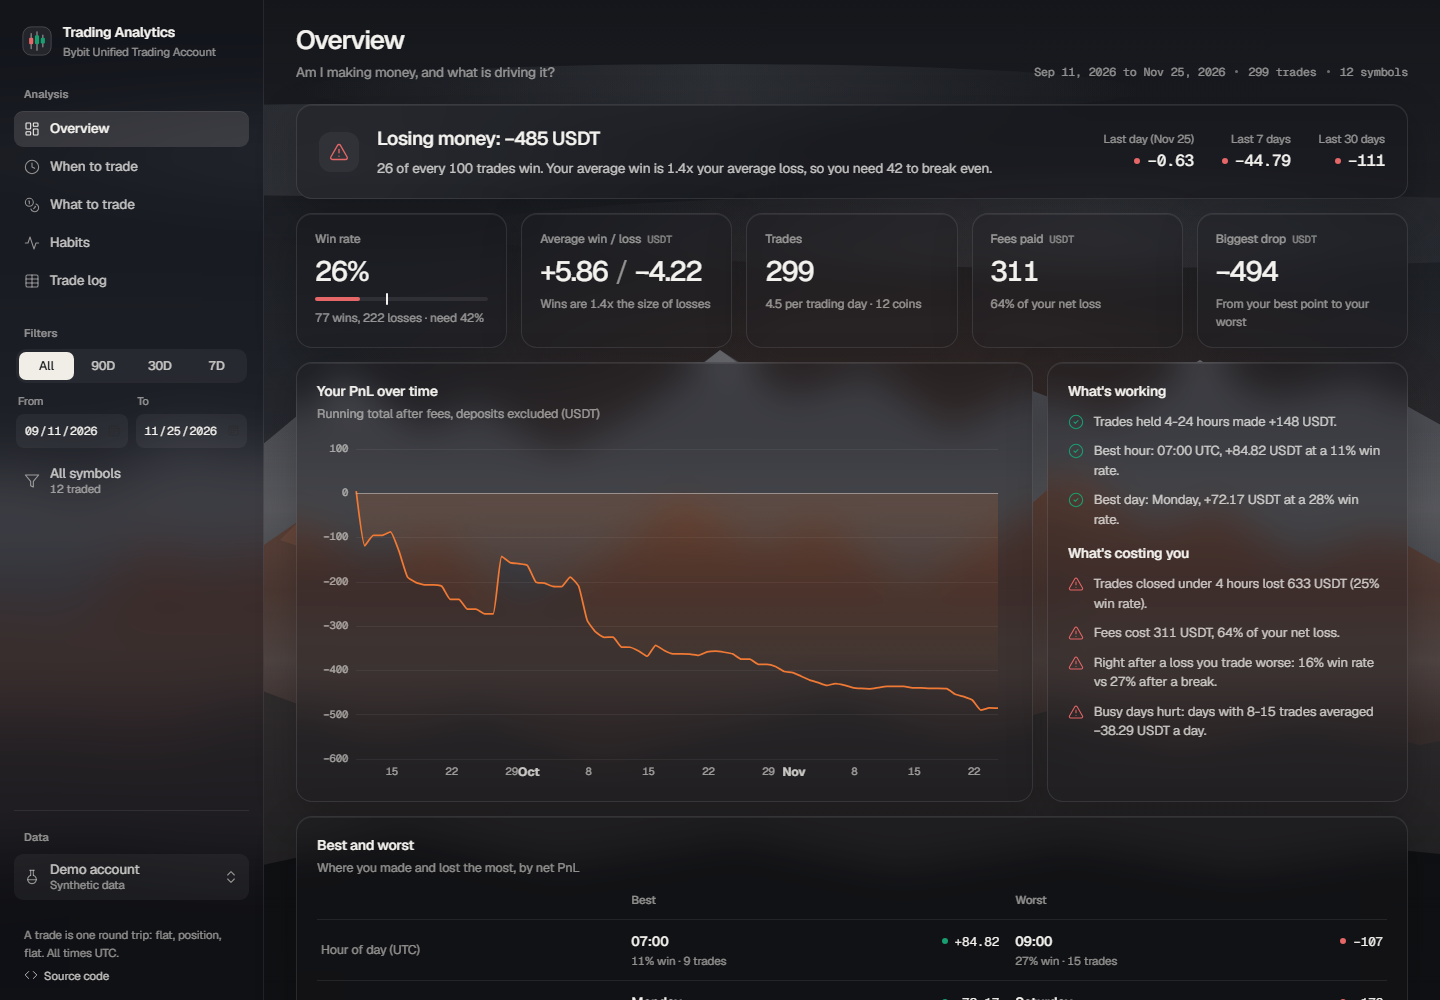
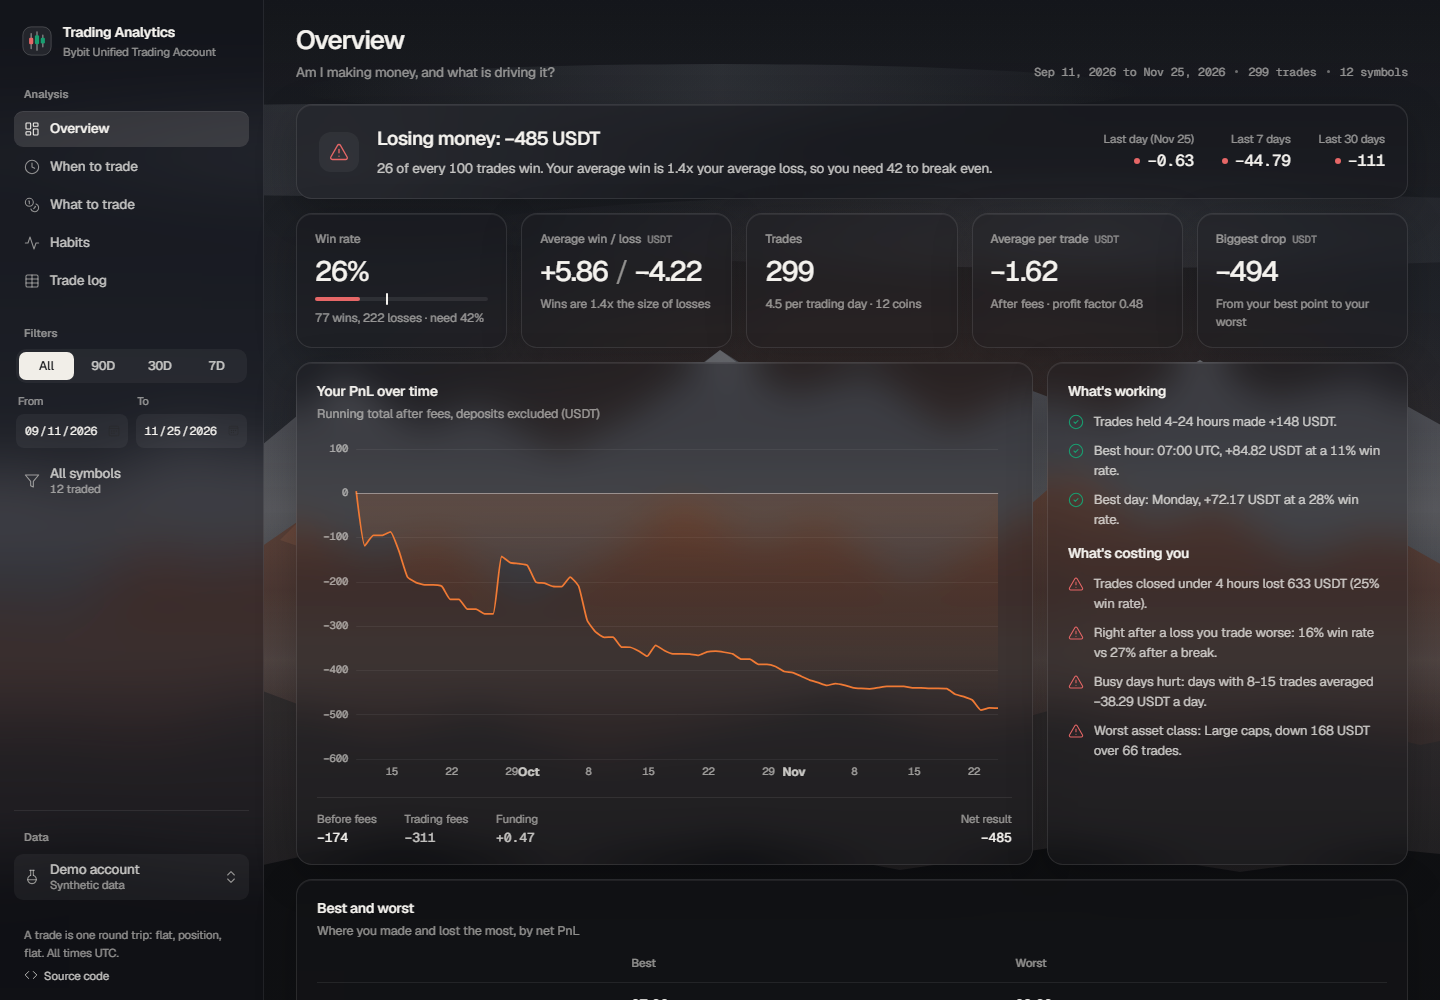
Treat fees as a cost, not a KPI
- Overview KPI row shows average result per trade (after fees) with profit factor
- Before fees / trading fees / funding / net result strip under the PnL chart
- Fee highlight only appears when fees turn a gross profit into a loss or take over a third of it

diff --git a/public/assets/app.js b/public/assets/app.js
@@ -353,6 +353,12 @@ function rankList(rows, ccy, { key = "symbol", n = 5 } = {}) {
     <span class="rank-val">${money0(d.net_pnl)}</span><span class="rank-sub">${fmt.int(d.trades)} trades, ${fmt.pct(d.win_rate)} win</span></li>`).join("")}</ol>`;
 }
 
+// Fees are a cost of doing business, so they sit under the PnL chart rather than among the KPIs.
+function costStrip(s) {
+  const step = (label, v, cls = "") => `<div class="cost ${cls}"><span>${label}</span><b>${money0(v)}</b></div>`;
+  return `<div class="costs" aria-label="PnL before and after costs, ${esc(s.currency)}">
+    ${step("Before fees", s.gross_pnl)}${step("Trading fees", s.fees, "muted")}${step("Funding", s.funding, "muted")}${step("Net result", s.net_pnl, "total")}</div>`;
+}
 function pageOverview(r) {
   const s = r.summary, ccy = s.currency, be = s.breakeven_win_rate, h = r.highlights || { working: [], costing: [] };
   const kpis = `<div class="kpis">
@@ -361,7 +367,8 @@ function pageOverview(r) {
     ${kpi("Average win / loss", `${fmt.money(s.avg_win)} <span class="kpi-sep">/</span> ${fmt.money(s.avg_loss)}`, { unit: ccy,
         foot: isNum(s.payoff_ratio) ? `Wins are ${fmt.num(s.payoff_ratio, 1)}x the size of losses` : "" })}
     ${kpi("Trades", fmt.int(s.trades), { foot: `${fmt.num(s.trades_per_active_day, 1)} per trading day &middot; ${fmt.int(s.symbols_traded)} coins` })}
-    ${kpi("Fees paid", fmt.num(-s.fees, 0), { unit: ccy, foot: s.net_pnl < 0 && s.fees < 0 ? `${fmt.pct(Math.min(1, -s.fees / Math.abs(s.net_pnl)))} of your net loss` : "" })}
+    ${kpi("Average per trade", fmt.money(s.expectancy, Math.abs(s.expectancy) >= 10 ? 1 : 2), { unit: ccy,
+        foot: `After fees${isNum(s.profit_factor) ? ` &middot; profit factor ${fmt.num(s.profit_factor, 2)}` : ""}` })}
     ${kpi("Biggest drop", fmt.money(s.max_drawdown_usdt, 0), { unit: ccy, foot: "From your best point to your worst" })}
   </div>`;
   const list = (items, kind) => items.length ? `<ul class="hl ${kind}">${items.map((t) => `<li>${icon(kind === "good" ? "check" : "alert")}<span>${esc(t)}</span></li>`).join("")}</ul>` : `<p class="note">Nothing stands out yet.</p>`;
@@ -375,7 +382,7 @@ function pageOverview(r) {
   queueChart("c-cum", cumPnlChart(r.daily, ccy));
   queueChart("c-daily", dailyPnlChart(r.daily, ccy));
   return verdictBlock(r) + kpis +
-    card("Your PnL over time", `Running total after fees, deposits excluded (${esc(ccy)})`, chartBox("c-cum", "tall", "Cumulative PnL line chart"), "s8") + hl +
+    card("Your PnL over time", `Running total after fees, deposits excluded (${esc(ccy)})`, chartBox("c-cum", "tall", "Cumulative PnL line chart") + costStrip(s), "s8") + hl +
     card("Best and worst", "Where you made and lost the most, by net PnL", bwTable) +
     accordion("Daily results", "Each day's PnL; drag the slider to zoom", chartBox("c-daily", "", "Daily PnL bar chart"));
 }

diff --git a/public/assets/styles.css b/public/assets/styles.css
@@ -364,6 +364,14 @@ dialog[open] { animation: rise 220ms var(--ease); }
 .session-v { font-size: 22px; font-weight: 500; letter-spacing: -0.035em; margin-top: 4px; }
 .session-v small { font-family: var(--mono); font-size: 10.5px; color: var(--text-3); font-weight: 400; letter-spacing: 0; margin-left: 2px; }
 
+.costs { display: flex; align-items: center; gap: 28px; flex-wrap: wrap; margin-top: 12px; padding-top: 12px; border-top: 1px solid var(--line); }
+.costs > i { font-style: normal; color: var(--text-3); font-family: var(--mono); font-size: 12px; }
+.cost { display: flex; flex-direction: column; gap: 1px; }
+.cost span { font-size: 11.5px; color: var(--text-3); }
+.cost b { font-family: var(--mono); font-size: 13px; font-weight: 500; color: var(--text-1); }
+.cost.muted b { color: var(--text-2); }
+.cost.total { margin-left: auto; text-align: right; }
+
 /* ---------------------------------------------------------- responsive */
 @media (max-width: 1280px) {
   .s8, .s7 { grid-column: span 12; } .s5, .s4 { grid-column: span 12; }

diff --git a/public/index.html b/public/index.html
@@ -9,7 +9,7 @@
   <link rel="preconnect" href="https://fonts.googleapis.com">
   <link rel="preconnect" href="https://fonts.gstatic.com" crossorigin>
   <link rel="stylesheet" href="https://fonts.googleapis.com/css2?family=Geist:wght@300..700&family=Geist+Mono:wght@400..600&display=swap">
-  <link rel="stylesheet" href="assets/styles.css?v=0.6.0">
+  <link rel="stylesheet" href="assets/styles.css?v=0.6.1">
 </head>
 <body>
   <a class="skip" href="#main">Skip to content</a>
@@ -121,6 +121,6 @@
   <input type="file" id="csvInput" accept=".csv,text/csv" hidden>
 
   <script src="https://cdnjs.cloudflare.com/ajax/libs/echarts/5.5.0/echarts.min.js"></script>
-  <script src="assets/app.js?v=0.6.0" type="module"></script>
+  <script src="assets/app.js?v=0.6.1" type="module"></script>
 </body>
 </html>

diff --git a/src/bybit_analytics/trader.py b/src/bybit_analytics/trader.py
@@ -201,9 +201,13 @@ def highlights(s: dict, tables: dict, tilt: pd.DataFrame, busy: pd.DataFrame, cc
         if top["net_pnl"] > 0:
             good.append(f"{top['direction']}s are profitable: {_money(top['net_pnl'], ccy)}.")
 
-    if s["fees"] < 0 and s["net_pnl"] < 0:
-        share = abs(s["fees"]) / (abs(s["net_pnl"]) + 1e-9)
-        bad.append(f"Fees cost {abs(s['fees']):,.0f} {ccy}, {min(share, 9.99):.0%} of your net loss.")
+    # Fees are a cost of trading, not a skill signal; mention them only when they change the outcome.
+    gross, fees = s.get("gross_pnl") or 0.0, abs(s.get("fees") or 0.0)
+    if gross > 0 and s["net_pnl"] < 0:
+        bad.append(f"Your trades made {_money(gross, ccy)} before fees, but fees and funding turned it into "
+                   f"{_money(s['net_pnl'], ccy)}. Fewer, larger trades would keep more of it.")
+    elif gross > 0 and fees > gross / 3:
+        bad.append(f"Fees took {fees / gross:.0%} of your profit before fees ({fees:,.0f} {ccy}).")
     if tilt is not None and not tilt.empty:
         t = tilt.set_index("context")
         after = [i for i in t.index if "after a loss" in i]

diff --git a/README.md b/README.md
@@ -61,7 +61,7 @@ leads with the answer and keeps detail folded away.
 
 | Page | Answers |
 |---|---|
-| **Overview** | Am I making money? A one-line verdict, the last day / 7 days / 30 days, win rate (wins and losses), average win vs loss, fees, biggest drop, PnL over time, *what's working* and *what's costing you*, and a best-vs-worst table by hour, day, session, asset class, coin, direction and holding time |
+| **Overview** | Am I making money? A one-line verdict, the last day / 7 days / 30 days, win rate (wins and losses), average win vs loss, average result per trade, biggest drop, PnL over time with a before-fees / fees / funding / net breakdown, *what's working* and *what's costing you*, and a best-vs-worst table by hour, day, session, asset class, coin, direction and holding time |
 | **When to trade** | Best and worst hour and day, results by hour (UTC or your own time zone), by weekday and by session (Asia, London, New York), and **which weekdays the market tends to pump or dump** (BTC average daily move and share of green days) |
 | **What to trade** | Profit by asset class (Bitcoin, Ethereum, large caps, layer 1 & 2, DeFi, AI, memecoins, gaming, small caps & new listings), what you trade most, top and bottom coins, longs vs shorts |
 | **Habits** | How long you hold vs results, win rate right after a loss, busy days, leverage |
